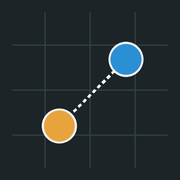
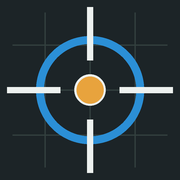
เปลี่ยนไอคอนแอปเป็นแบบเป้าเล็งกับหมุดหลักเขต
- สร้างไอคอนใหม่ครบทุกขนาด 192/512, maskable, apple-touch และ favicon
- เพิ่ม maskable-192 ในไฟล์ manifest
- ปรับ maskable ให้ภาพอยู่ในเขตปลอดภัย 80% กันถูกตัดเมื่อครอบทรงกลม
- เลื่อนเวอร์ชันแคชเป็น v2 เพื่อให้เครื่องที่ติดตั้งแล้วได้ไอคอนใหม่

Claude-Session: https://claude.ai/code/session_01UcryVsQrjQXNmUznC6hnnV

Changed region(s): [[0.0278, 0.0278, 0.9722, 0.9722]]

diff --git a/sw.js b/sw.js
@@ -2,7 +2,7 @@
    - ไฟล์หลักของแอป: ใช้ของในแคชก่อน แล้วอัปเดตเบื้องหลัง
    - ไลบรารีและฟอนต์จาก CDN: เก็บแคชไว้ตอนใช้งานครั้งแรก
    - ภาพแผนที่ (tiles): ไม่เก็บแคช ปล่อยให้เบราว์เซอร์จัดการเอง */
-const VERSION = 'v1';
+const VERSION = 'v2';
 const SHELL = `shell-${VERSION}`;
 const LIBS = `libs-${VERSION}`;
 const SHELL_FILES = [
@@ -11,6 +11,7 @@ const SHELL_FILES = [
   './manifest.webmanifest',
   './icons/icon-192.png',
   './icons/icon-512.png',
+  './icons/maskable-192.png',
   './icons/maskable-512.png',
   './icons/apple-touch-icon.png'
 ];
